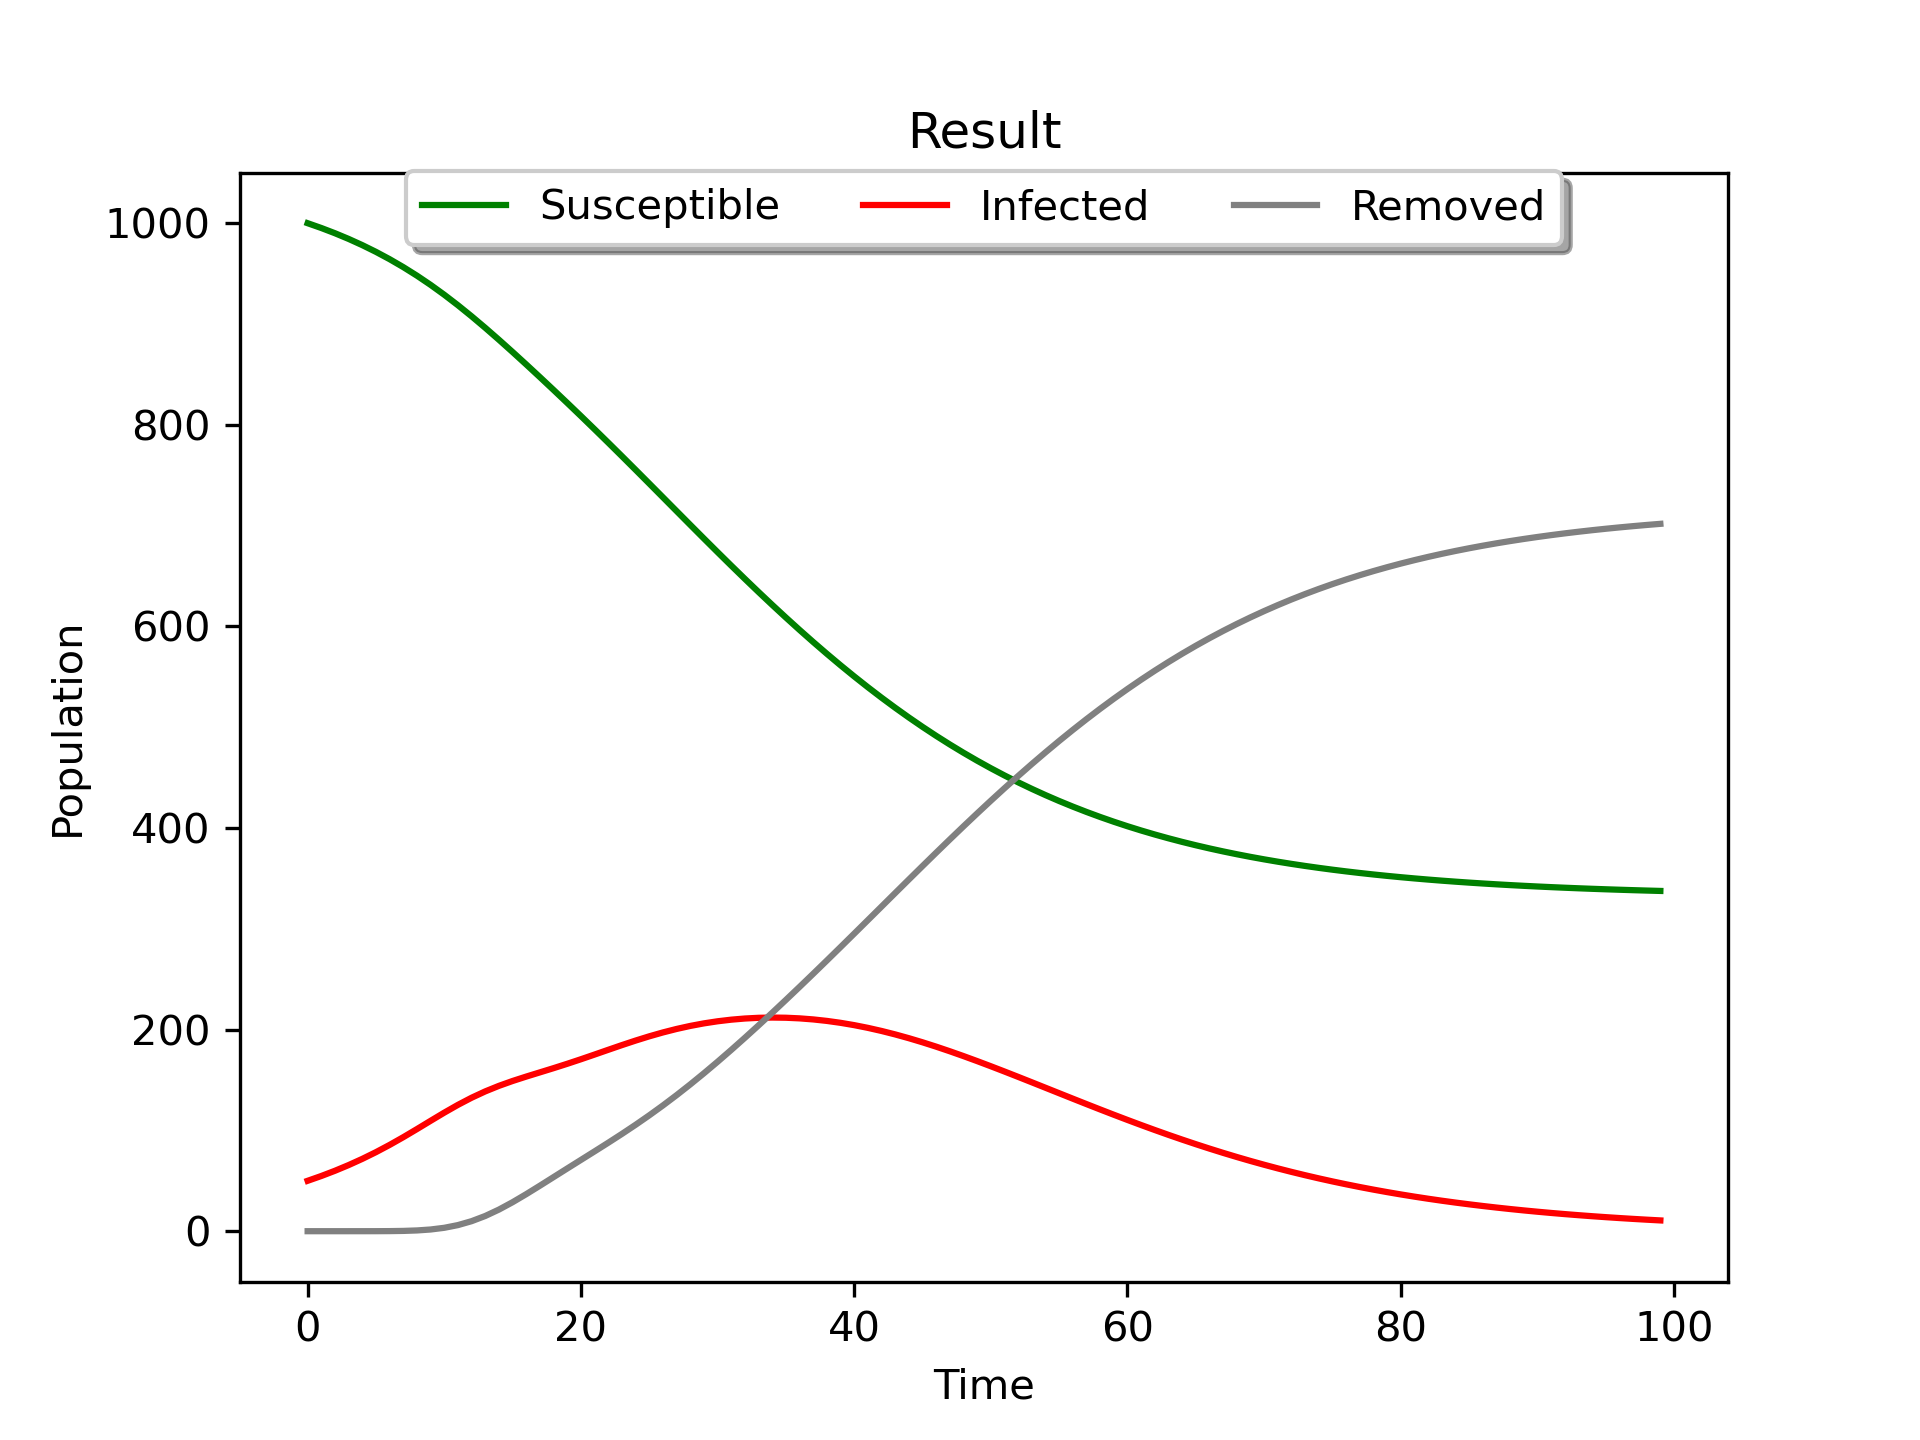
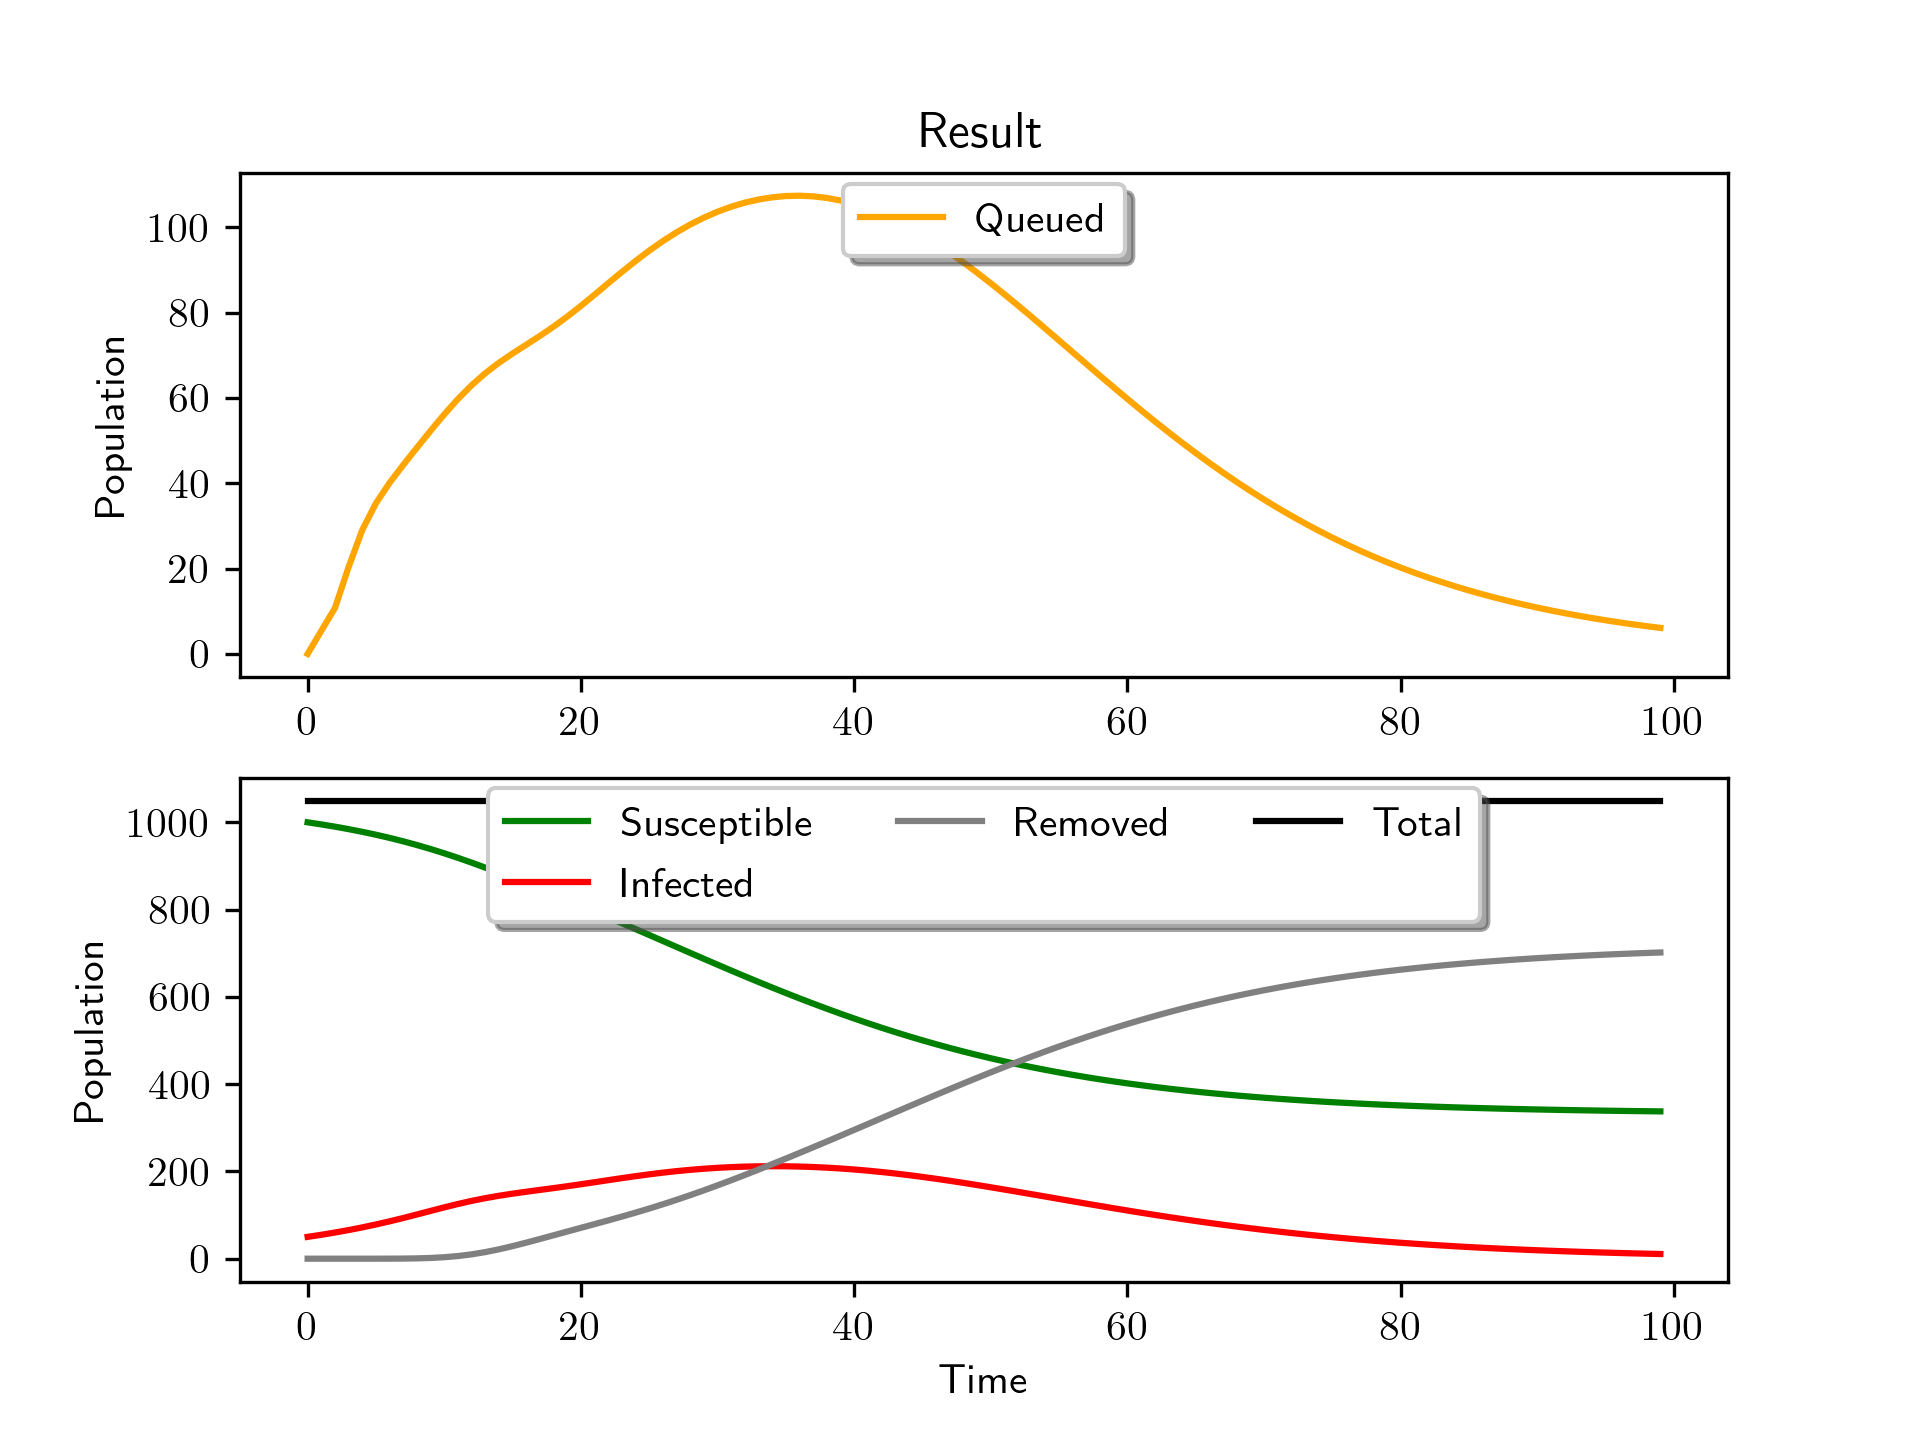
Queue implemented, without service

diff --git a/model.py b/model.py
@@ -9,6 +9,12 @@ import random
 import os
 import seaborn as sns
 
+from matplotlib import rc
+# rc('font', **{'family': 'sans-serif', 'sans-serif': ['Helvetica']})
+# for Palatino and other serif fonts use:
+# rc('font', **{'family': 'serif', 'serif': ['Palatino']})
+rc('text', usetex=True)
+
 
 class Model:
     def __init__(self, duration=100, timeStep=1,  # days
@@ -38,8 +44,7 @@ class Model:
                                             self.TSymptomatic,
                                             self.PSymptomatic)
         self.PdfItoR = self.__getPoissonPdf(self.NTimeSteps,
-                                            self.TRecovery,
-                                            1-self.PSymptomatic)
+                                            self.TRecovery)
         self.PdfQtoR = self.__getPoissonPdf(self.NTimeSteps,
                                             self.TRecovery)
 
@@ -51,55 +56,56 @@ class Model:
         ts = list(range(0, self.Duration, self.TimeStep))
         zeros = [0 for _ in range(1, self.NTimeSteps)]
         S = np.array([self.InitialSusceptible] + zeros, dtype='f')
-        I = np.array([self.InitialInfected] + zeros, dtype='f')
-        I_byInfectedTime = np.array([self.InitialInfected] + zeros, dtype='f')
-        # I_left = np.array([self.InitialInfected] + zeros,
-        #                   dtype='f')
-        # Q = np.array([self.InitialQueued] + zeros, dtype='f')
-        # Q_left = np.array([self.InitialQueued] + zeros, dtype='f')
+        I_nq = np.array([self.InitialInfected] + zeros, dtype='f')
+        I_nq_byInfectedTime = np.array(
+            [self.InitialInfected] + zeros, dtype='f')
+        I_q = np.array([self.InitialQueued] + zeros, dtype='f')
+        I_q_byInfectedTime = np.array([self.InitialQueued] + zeros, dtype='f')
         R = np.array([self.InitialRemoved] + zeros, dtype='f')
 
         for i in range(0, self.NTimeSteps-1):
-            S_to_I = self.__S_to_I(i, S, I)
-            # I_to_Q, Imoved = self.__I_to_Q(i, I_left)
-            I_to_R = self.__I_to_R(i, I_byInfectedTime)
-            # Q_to_R, Qmoved = self.__Q_to_R(i, I, Q, R, S)
-            # Q_left = self.__removeMoved(Q_left, Qmoved)
+            # Euler forward
+            S_to_I_nq = self.__S_to_I(i, S, I_nq, I_q)
+            I_nq_to_R = self.__I_nq_to_R(i, I_nq_byInfectedTime)
+            I_q_to_R = self.__I_q_to_R(i, I_q_byInfectedTime)
 
-            S[i+1] = S[i] - S_to_I
-            I[i+1] = I[i] + S_to_I - I_to_R  # - I_to_Q
-            I_byInfectedTime[i+1] = S_to_I
-            # I_left[i+1] = I[i+1]
-            # Q[i+1] = Q[i] + I_to_Q - Q_to_R
-            # Q_left[i+1] = Q[i+1]
-            R[i+1] = R[i] + I_to_R  # + Q_to_R
+            # Step forward
+            S[i+1] = S[i] - S_to_I_nq
+            I_nq[i+1] = I_nq[i] + S_to_I_nq - I_nq_to_R
+            I_nq_byInfectedTime[i+1] = S_to_I_nq
+            I_q[i+1] = I_q[i] - I_q_to_R
+            R[i+1] = R[i] + I_nq_to_R + I_q_to_R
+
+            # Queue infected that shows symptomps
+            n = min(i+1, len(self.PdfItoQ))
+            for k in range(n):
+                q = I_nq_byInfectedTime[i-k]*self.PdfItoQ[k]
+                I_nq_byInfectedTime[i-k] -= q
+                I_q_byInfectedTime[i-k] += q
+                I_nq[i+1] -= q
+                I_q[i+1] += q
 
         self.Results = pd.DataFrame.from_dict({"Time": ts,
                                                "Susceptible": S,
-                                               "Infected": I,
-                                               #    "Queued": Q,
+                                               "Infected": np.sum([I_nq, I_q], axis=0),
+                                               "Queued": I_q,
                                                "Removed": R})
         self.HasModelRun = True
 
-    def __S_to_I(self, i, S, I):
-        f = (self.RateSI * S[i] * (I[i])) \
+    def __S_to_I(self, i, S, I, I_Q):
+        f = (self.RateSI * S[i] * (I[i]+I_Q[i])) \
             / self.TotalIndividuals
         return f
 
-    def __I_to_Q(self, i, I_left):
-        f = self.__conv(I_left, self.PdfItoQ, i)
+    def __I_nq_to_R(self, i, I_byInfectedTime):
+        f = self.__conv(I_byInfectedTime, self.PdfItoR, i)
         return f
 
-    def __I_to_R(self, i, I_left):
-        f = self.__conv(I_left, self.PdfItoR, i)
-        return f
-
-    def __Q_to_R(self, i, I, Q, R, S):
-        f = self.__conv(Q, self.PdfItoR, i)
+    def __I_q_to_R(self, i, I_Q_byInfectedTime):
+        f = self.__conv(I_Q_byInfectedTime, self.PdfQtoR, i)
         return f
 
     def __conv(self, array, pdf, index):
-        print(sum(pdf))
         n = min(index+1, len(pdf), len(array))
         s = 0
         for k in range(0, n):
@@ -124,29 +130,38 @@ class Model:
         arrayLength = min(50, arrayLength)
 
         for i in range(1, arrayLength):
-            pdf.append(pow*exp/factorial*totalProbability)
+            pdf.append(pow*exp/factorial)
             pow *= mean
             factorial *= i
 
-        return np.array(pdf)
+        return np.array(pdf, dtype='f')*totalProbability
 
     def plot(self, fileName='result.png', openFile=True, title='Result'):
         if not self.HasModelRun:
             print('Error: Please call Model.run() before plotting.')
             return
+
+        plt.subplot(2, 1, 1)
+        plt.plot(self.Results['Time'],
+                 self.Results['Queued'], color='orange')
+        plt.legend(['Queued'], prop={
+                   'size': 10}, loc='upper center', bbox_to_anchor=(0.5, 1.02), ncol=3, fancybox=True, shadow=True)
+        plt.ylabel('Population')
+        plt.title(title)
+
+        plt.subplot(2, 1, 2)
         plt.plot(self.Results['Time'],
                  self.Results['Susceptible'], color='green')
         plt.plot(self.Results['Time'],
                  self.Results['Infected'], color='red')
-        # plt.plot(self.Results['Time'],
-        #          self.Results['Queued'], color='orange')
         plt.plot(self.Results['Time'],
                  self.Results['Removed'], color='gray')
+        plt.plot(self.Results['Time'],
+                 np.sum([self.Results['Susceptible'], self.Results['Infected'], self.Results['Removed']], axis=0), color='black')
         plt.xlabel('Time')
         plt.ylabel('Population')
-        plt.legend(['Susceptible', 'Infected', 'Removed'], prop={
+        plt.legend(['Susceptible', 'Infected', 'Removed', 'Total'], prop={
                    'size': 10}, loc='upper center', bbox_to_anchor=(0.5, 1.02), ncol=3, fancybox=True, shadow=True)
-        plt.title(title)
         plt.savefig(fileName, dpi=300)
         plt.close()
         if openFile:

diff --git a/example_analysis.py b/example_analysis.py
@@ -1,6 +1,8 @@
+import os
 from model import Model
 import matplotlib.pyplot as plt
-import os
+from matplotlib import rc
+rc('text', usetex=True)
 
 model1 = Model(rateSI=0.01)
 model1.run()
@@ -15,6 +17,7 @@ t = model1.Results['Time']
 plt.plot(t, model1.Results['Infected'])
 plt.plot(t, model2.Results['Infected'])
 plt.plot(t, model3.Results['Infected'])
+plt.legend([r'$\beta = .01$', r'$\beta = .05$', r'$\beta = .10$'])
 plt.savefig('example_analysis.png', dpi=300)
 plt.close()
 os.startfile('example_analysis.png', 'open')

diff --git a/main.py b/main.py
@@ -1,11 +1,16 @@
 from model import Model
+import example_simulation
+import example_analysis
+import os
 
 
 def main():
-    model = Model(servers=0, pSymptomatic=0)
+    model = Model(servers=0)
     model.run()
     model.plot()
 
 
 if __name__ == '__main__':
     main()
+    os.system('python example_simulation.py')
+    os.system('python example_analysis.py')
